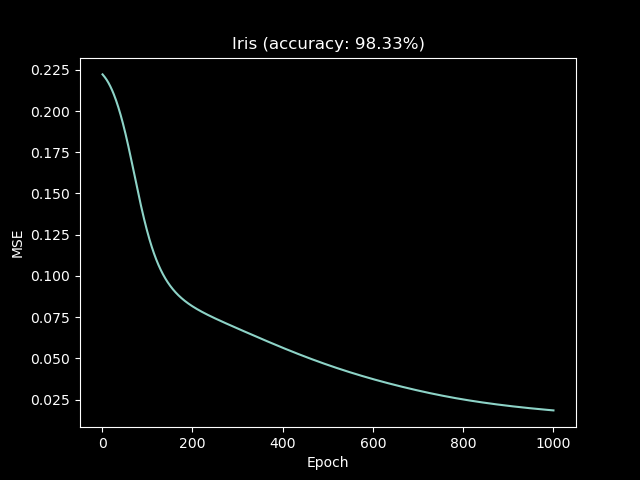
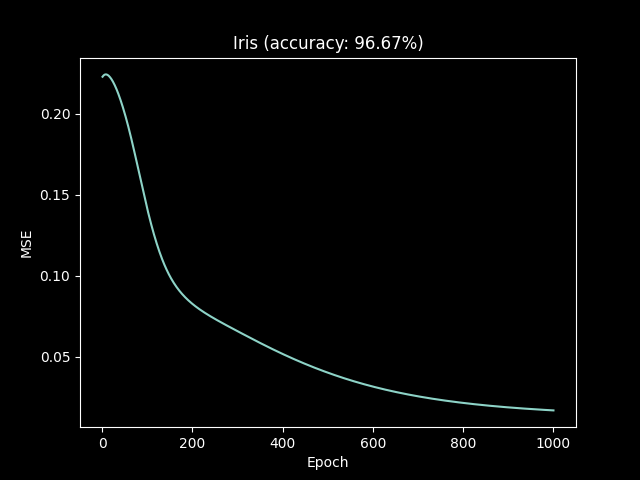
Updated learning rates

diff --git a/main.py b/main.py
@@ -71,7 +71,7 @@ def main():
     #
     # Hiperparameters (Red Wine)
     #
-    learning_rates = [0.0001, 0.0005, 0.006, 0.0105, 0.1, 0.5]
+    learning_rates = [0.0001, 0.0005, 0.006, 0.0105, 0.08, 0.2]
     hidden_layer = 11
     epochs = 800
     minibatch_size = 8
@@ -90,6 +90,7 @@ def main():
     stats_combined = []
 
     for lr in learning_rates:
+        np.random.seed(0)
         nn = NeuralNetwork(input_layer, hidden_layer, output_layer, lr)
         nn.train(training_df, epochs, minibatch_size)
         accuracy = get_accuracy(nn, test_df)
